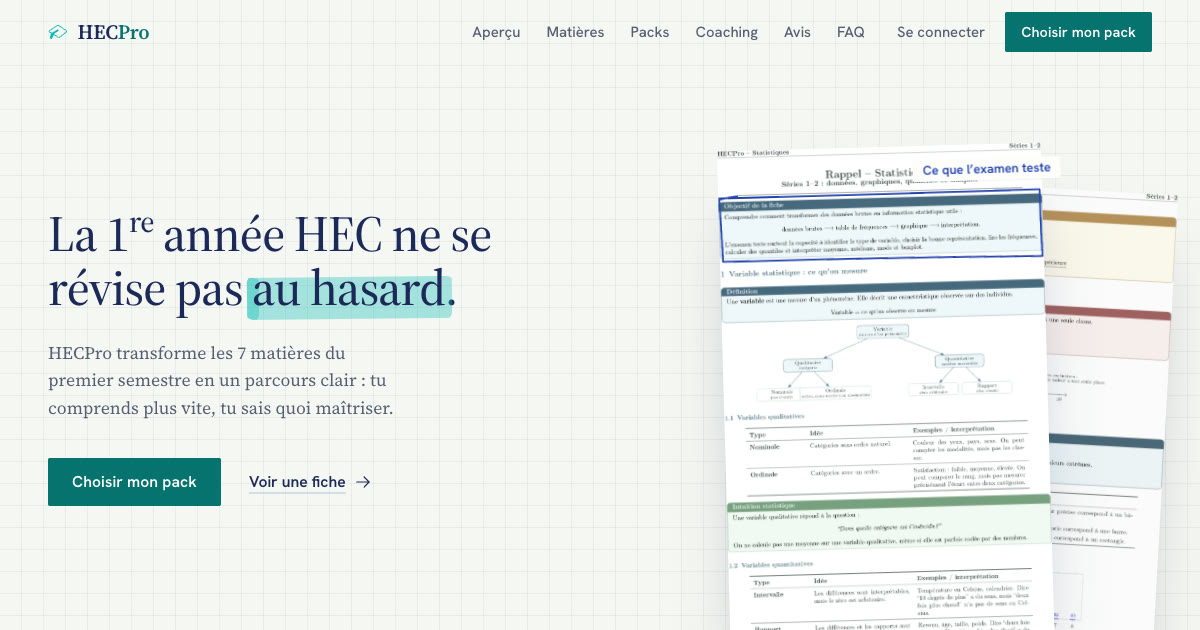
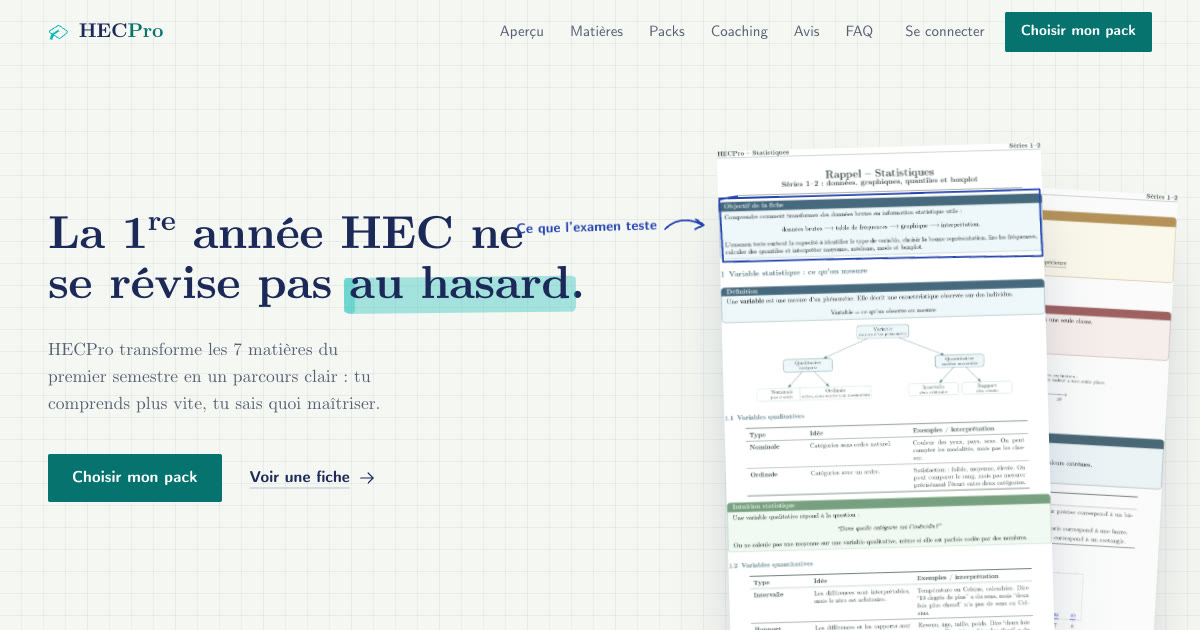
Keep one version: palette A « Cahier » (scored 9.2 vs 9.0 for B)
Palette B « Tableau » and the palette switch are removed from the page;
the two-palette build stays in commit 2ead921. New og image with CMU type.

diff --git a/assets/site.css b/assets/site.css
@@ -60,30 +60,6 @@
   }
 }
 
-/* Palette B « Tableau »: the lecture-hall blackboard. Chalk text, yellow chalk frames,
-   coral chalk for warnings, teal chalk as the highlighter. Same in light and dark mode. */
-:root[data-palette="b"] {
-  --paper: #151B19;
-  --sheet: #1D2522;
-  --ink: #ECEEE7;
-  --ink-2: #A4AEA8;
-  --rule: #2D3834;
-  --grid: rgb(236 238 231 / .03);
-  --margin: transparent;
-  --pen: #F1E2A2;
-  --red: #FF8F7C;
-  --teal: #3FD5CE;
-  --teal-ink: #3FD5CE;
-  --on-teal: #0F1A18;
-  --hl: rgb(63 213 206 / .34);
-  --ink-t: #1F2C2B;
-  --teal-t: #18312E;
-  --code-bg: #0D1110; --code-ink: #ECEEE7;
-  --shadow: 0 1px 0 rgb(0 0 0 / .35), 0 22px 44px -22px rgb(0 0 0 / .8);
-  --shadow-lg: 0 1px 0 rgb(0 0 0 / .35), 0 40px 70px -30px rgb(0 0 0 / .9);
-  color-scheme: dark;
-}
-
 *, *::before, *::after { box-sizing: border-box; }
 html { -webkit-text-size-adjust: 100%; scroll-padding-top: calc(var(--head) + 16px); }
 body {
@@ -193,11 +169,6 @@ svg[aria-hidden] { width: 1.15em; height: 1.15em; fill: currentColor; flex: none
 .top__nav a:hover, .top__login:hover { color: var(--ink); }
 .top__end { display: flex; align-items: center; gap: 20px; }
 .top__menu { display: none; width: 44px; height: 44px; place-items: center; }
-.swatch { display: flex; gap: 8px; }
-.swatch button { width: 18px; height: 18px; border-radius: 50%; box-shadow: inset 0 0 0 1.5px var(--rule); transition: box-shadow .3s; }
-.swatch [data-palette-set="a"] { background: linear-gradient(135deg, #F6F7F3 50%, #2443B0 50%); }
-.swatch [data-palette-set="b"] { background: linear-gradient(135deg, #151B19 50%, #F1E2A2 50%); }
-.swatch button[aria-pressed="true"] { box-shadow: 0 0 0 2px var(--paper), 0 0 0 3.5px var(--teal); }
 .top__menu svg { width: 24px; height: 24px; }
 
 .menu { width: 100%; max-width: none; height: 100dvh; max-height: none; margin: 0; padding: 0 var(--gut) 32px; border: 0; background: var(--paper); color: var(--ink); }
@@ -207,7 +178,6 @@ svg[aria-hidden] { width: 1.15em; height: 1.15em; fill: currentColor; flex: none
 .menu__nav a { font: 700 2rem/1.25 var(--serif); text-decoration: none; }
 .menu__cta { margin-top: 36px; width: 100%; }
 .menu__login { display: inline-block; margin-top: 22px; font: 600 1rem var(--sans); }
-.palette--menu { position: static; display: inline-flex; margin-top: 32px; box-shadow: none; }
 
 /* Hero */
 .hero { position: relative; min-height: 100dvh; padding-top: calc(var(--head) + clamp(24px, 6vh, 72px)); overflow: clip; }
@@ -540,24 +510,6 @@ figcaption { margin-top: 16px; font: 400 .9rem var(--mono); color: var(--ink-2);
 .foot__legal { grid-column: 1 / -1; display: flex; flex-wrap: wrap; justify-content: space-between; gap: 8px 32px; padding-top: 24px; border-top: 1px solid var(--rule); }
 .foot__legal p:nth-child(2) { display: flex; gap: 24px; flex-wrap: wrap; }
 
-/* Palette B extras: chalk dust on the board, chalky edges on every hand-drawn stroke */
-[data-palette="b"] body {
-  background-image: radial-gradient(120% 70% at 50% 0%, rgb(236 238 231 / .045), transparent 62%),
-    linear-gradient(var(--grid) 1px, transparent 1px), linear-gradient(90deg, var(--grid) 1px, transparent 1px);
-  background-size: 100% 100vh, 22px 22px, 22px 22px;
-  background-repeat: no-repeat, repeat, repeat;
-}
-[data-palette="b"] :is(svg.annot, .tour__ink, .paper .ink) path { filter: url(#chalk); }
-[data-palette="b"] svg.annot { stroke-width: 2.4; }
-[data-palette="b"] :is(.paper img, .tour__pg, .closing__sheet img, .reader__pages img) { filter: brightness(.9) contrast(1.04); }
-
-/* Palette switch inside the phone menu */
-.palette { display: flex; gap: 2px; padding: 4px; background: var(--sheet); border-radius: 2px; font: 600 .8rem/1 var(--sans); }
-.palette button { padding: 9px 12px; border-radius: 2px; color: var(--ink-2); transition: background-color .3s, color .3s; }
-.palette button:hover { color: var(--ink); }
-.palette button[aria-pressed="true"] { background: var(--ink); color: var(--paper); }
-html.is-switching, html.is-switching * { transition: background-color .5s var(--ease), color .5s var(--ease), stroke .5s var(--ease), box-shadow .5s var(--ease) !important; }
-
 /* Mobile dock */
 .dock { display: none; }
 
@@ -643,8 +595,7 @@ html.is-switching, html.is-switching * { transition: background-color .5s var(--
     transform: translateY(110%); transition: transform .45s var(--ease);
   }
   .dock.is-on { transform: none; }
-  .swatch { display: none; }
-
+  
   /* Phone: facts as a compact 3-up row */
   .facts__row { grid-template-columns: repeat(3, 1fr); }
   .facts__row > div, .facts__row > div + div, .facts__row > div:last-child { grid-column: auto; flex-direction: column; gap: 6px; padding: 18px 0; border-top: 0; }

diff --git a/index.html b/index.html
@@ -22,7 +22,7 @@
 <link rel="preload" as="font" type="font/woff" href="assets/fonts/cmunrm.woff" crossorigin>
 <link rel="preload" as="image" href="assets/fiche/p1.webp" fetchpriority="high">
 <link rel="stylesheet" href="assets/site.css">
-<script>(function(d){d.classList.add('js');try{if(new URLSearchParams(location.search).get('palette')==='b')d.dataset.palette='b'}catch(e){}})(document.documentElement)</script>
+<script>document.documentElement.classList.add('js')</script>
 <script type="application/ld+json">
 {"@context":"https://schema.org","@graph":[
 {"@type":"Organization","name":"HEC Pro","url":"https://www.hecpro.ch/"},
@@ -41,7 +41,6 @@
 </head>
 <body>
 <svg class="sprite" aria-hidden="true">
-  <filter id="chalk" x="-5%" y="-5%" width="110%" height="110%"><feTurbulence type="fractalNoise" baseFrequency="1.1" numOctaves="2" seed="4" result="n"/><feDisplacementMap in="SourceGraphic" in2="n" scale="2.4"/></filter>
   <!-- Phosphor Icons (regular), copied from @phosphor-icons/core 2.1.1 -->
   <symbol id="i-arrow" viewBox="0 0 256 256"><path d="M221.66 133.66l-72 72a8 8 0 0 1-11.32-11.32L196.69 136H40a8 8 0 0 1 0-16h156.69l-58.35-58.34a8 8 0 0 1 11.32-11.32l72 72a8 8 0 0 1 0 11.32Z"/></symbol>
   <symbol id="i-check" viewBox="0 0 256 256"><path d="M229.66 77.66l-128 128a8 8 0 0 1-11.32 0l-56-56a8 8 0 0 1 11.32-11.32L96 188.69 218.34 66.34a8 8 0 0 1 11.32 11.32Z"/></symbol>
@@ -70,10 +69,6 @@
       <a href="#faq">FAQ</a>
     </nav>
     <div class="top__end">
-      <div class="swatch" role="group" aria-label="Palette de couleurs">
-        <button type="button" data-palette-set="a" aria-pressed="true" aria-label="Palette Cahier" title="Cahier"></button>
-        <button type="button" data-palette-set="b" aria-pressed="false" aria-label="Palette Tableau" title="Tableau"></button>
-      </div>
       <a class="top__login" href="https://www.hecpro.ch/account/sessions/new">Se connecter</a>
       <a class="btn btn--solid btn--sm" href="#packs">Choisir mon pack</a>
       <button class="top__menu" type="button" aria-label="Ouvrir le menu" data-open-menu>
@@ -98,10 +93,6 @@
   </nav>
   <a class="btn btn--solid menu__cta" href="#packs">Choisir mon pack</a>
   <a class="menu__login" href="https://www.hecpro.ch/account/sessions/new">Se connecter</a>
-  <div class="palette palette--menu" role="group" aria-label="Palette de couleurs">
-    <button type="button" data-palette-set="a" aria-pressed="true">Cahier</button>
-    <button type="button" data-palette-set="b" aria-pressed="false">Tableau</button>
-  </div>
 </dialog>
 
 <main id="contenu">

diff --git a/assets/site.js b/assets/site.js
@@ -17,20 +17,6 @@
   }
   const scrollToY = y => lenis ? lenis.scrollTo(y, { duration: 1.3 }) : scrollTo({ top: y, behavior: calm ? 'auto' : 'smooth' });
 
-  // Palette switch (comparison aid): A « Cahier » / B « Tableau ».
-  const root = document.documentElement, metas = $$('meta[name="theme-color"]'), metaA = metas.map(m => m.content);
-  const setPalette = (v, animate) => {
-    if (animate) { root.classList.add('is-switching'); setTimeout(() => root.classList.remove('is-switching'), 600); }
-    v === 'b' ? root.dataset.palette = 'b' : delete root.dataset.palette;
-    $$('[data-palette-set]').forEach(b => b.setAttribute('aria-pressed', String(b.dataset.paletteSet === v)));
-    metas.forEach((m, i) => { m.content = v === 'b' ? '#151B19' : metaA[i]; });
-    const u = new URL(location.href);
-    v === 'b' ? u.searchParams.set('palette', 'b') : u.searchParams.delete('palette');
-    history.replaceState(null, '', u);
-  };
-  setPalette(root.dataset.palette === 'b' ? 'b' : 'a');
-  $$('[data-palette-set]').forEach(b => b.addEventListener('click', () => setPalette(b.dataset.paletteSet, !calm)));
-
   // Hand-drawn shapes: seeded jitter so a frame looks the same on every visit.
   const rng = a => () => { a |= 0; a = a + 0x6D2B79F5 | 0; let t = Math.imul(a ^ a >>> 15, 1 | a); t = t + Math.imul(t ^ t >>> 7, 61 | t) ^ t; return ((t ^ t >>> 14) >>> 0) / 4294967296; };
   const f = n => n.toFixed(1);
